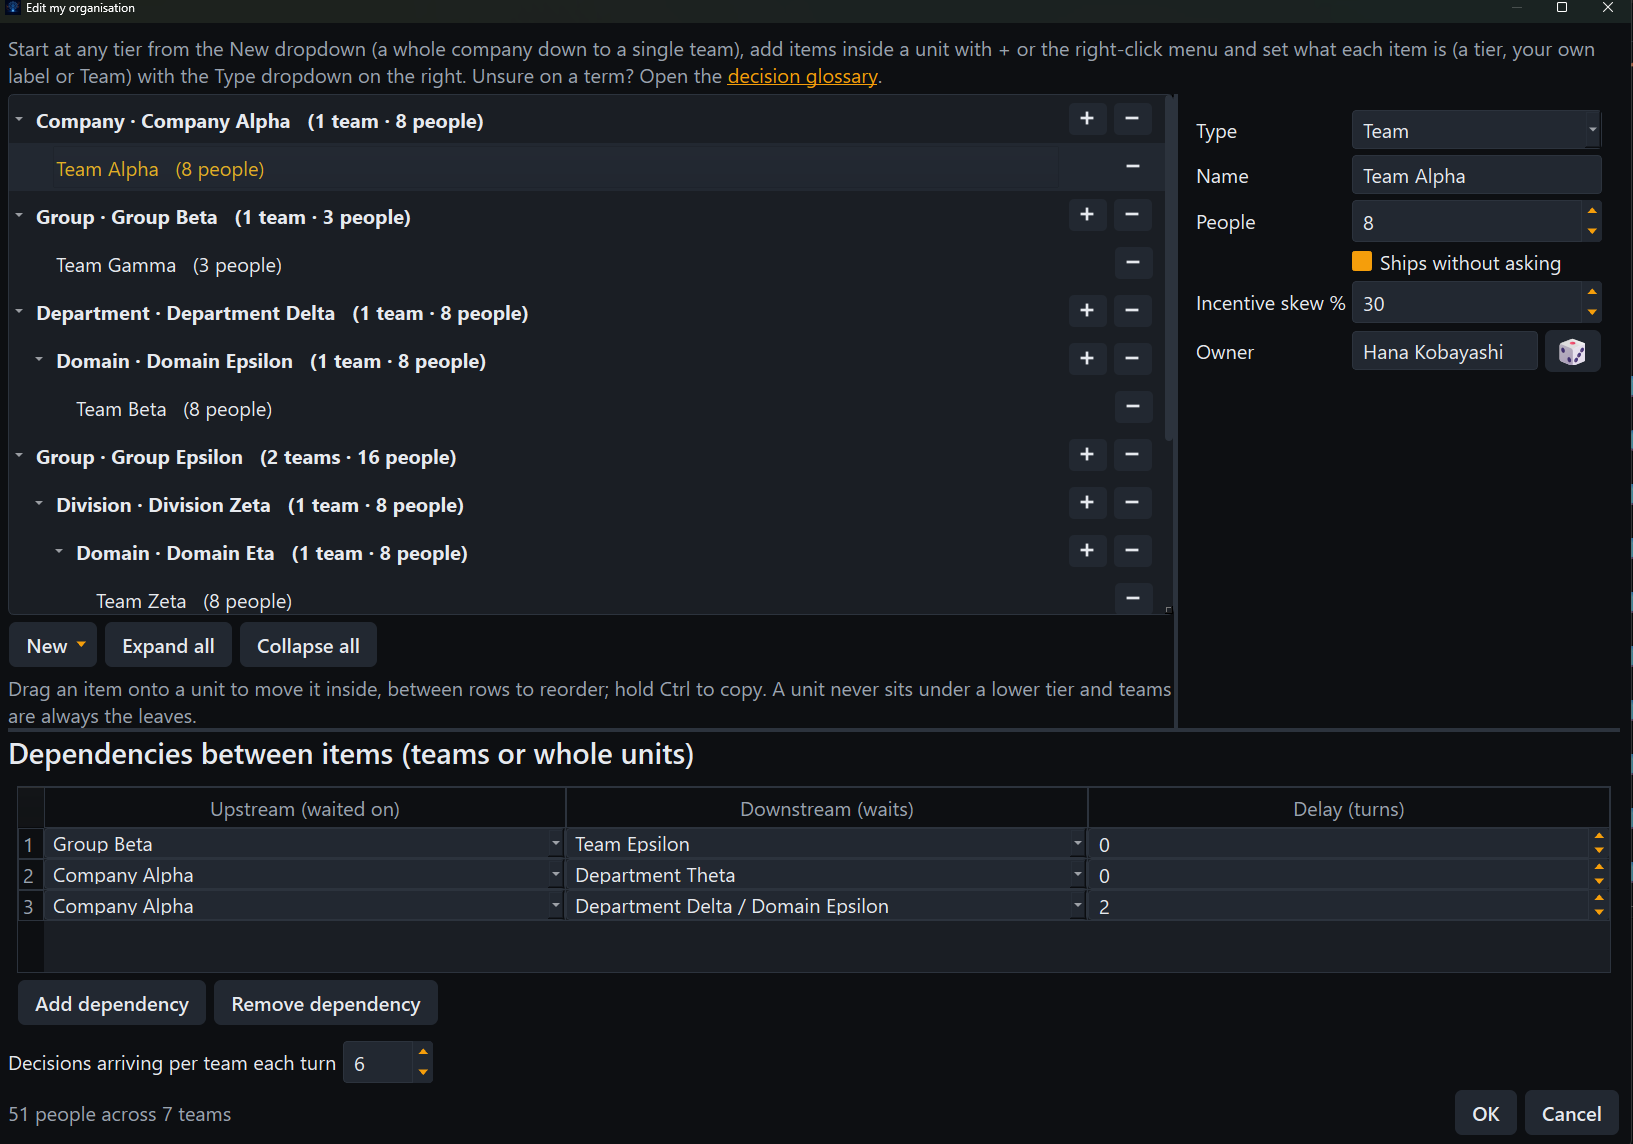
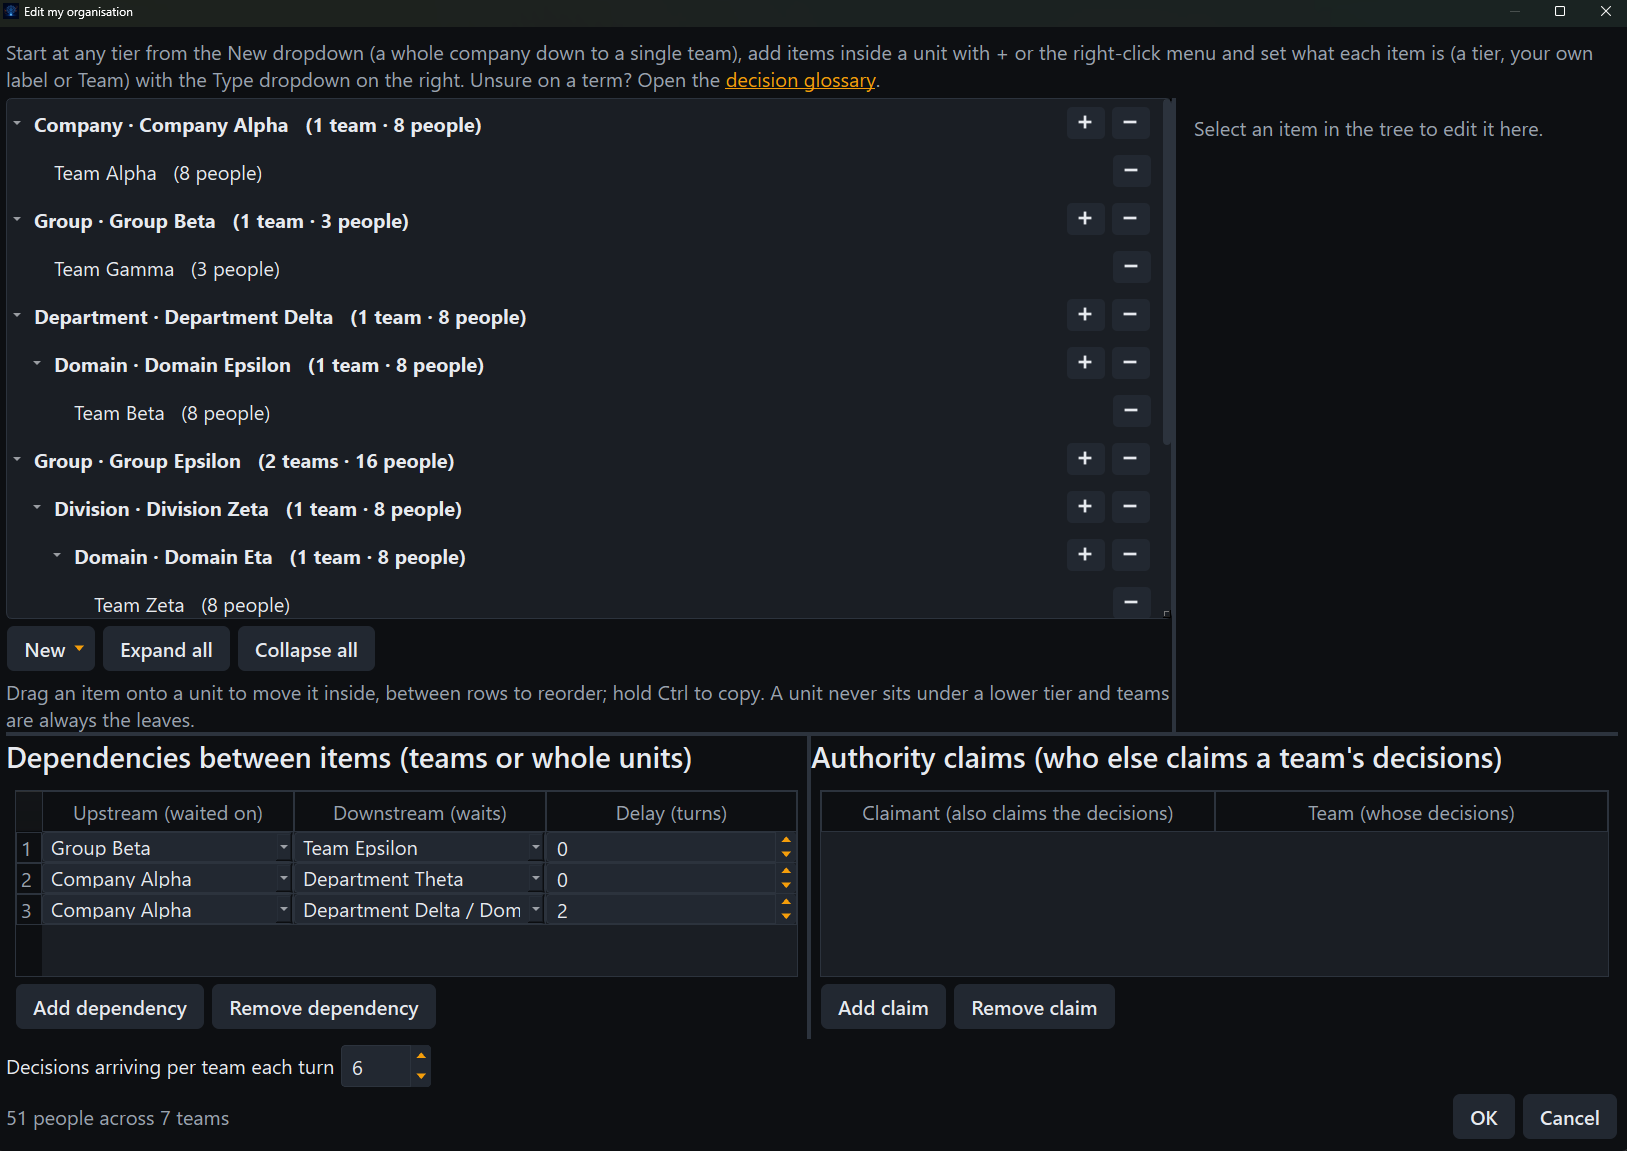
Show the new guide screenshots on the tool page

diff --git a/docs/tool.html b/docs/tool.html
@@ -75,14 +75,27 @@
         </figure>
         <figure class="shot">
           <div class="frame">
-            <img loading="lazy" src="assets/screenshots/play-guide.png" alt="The Fulcrum guide planning a stronger org">
+            <img loading="lazy" src="assets/screenshots/play-guide1.png" alt="The Fulcrum guide: the level tree beside the top-level line, every step priced from its before score to its after score">
           </div>
-          <figcaption><b>The line.</b> The guide plans every level: each
-            unit climbs in its own frame and the leaf lines compose into a
-            whole-org climb. It delegates authority team by team first,
-            because that is where the points are, then sweeps up the remaining
-            incentive skew: the same order the books argue for, discovered by
-            the engine.</figcaption>
+          <figcaption><b>The line.</b> The guide plans every level: the left
+            pane lists each unit's line with its worth in org points and the
+            leaf lines compose into a whole-org climb, here from 62.8 to 84.1.
+            The right pane plays the selected frame move by move, every step
+            priced from its before score to its after score. It delegates
+            authority team by team first, because that is where the points
+            are, then sweeps up the remaining incentive skew: the same order
+            the books argue for, discovered by the engine.</figcaption>
+        </figure>
+        <figure class="shot">
+          <div class="frame">
+            <img loading="lazy" src="assets/screenshots/play-guide2.png" alt="A leaf line in the Fulcrum guide: Domain Epsilon worth +6.8 org points to the whole organisation">
+          </div>
+          <figcaption><b>One leaf line.</b> Select a leaf and the guide shows
+            that level's own short line: here Domain Epsilon climbs from 50.3
+            to 97.6 on its own 0 to 100 scale, while its honest worth to the
+            whole organisation is the +6.8 org points in the tree. Leaf badges
+            sum exactly to the headline climb, so nothing is counted
+            twice.</figcaption>
         </figure>
       </div>
       <div class="cta">
